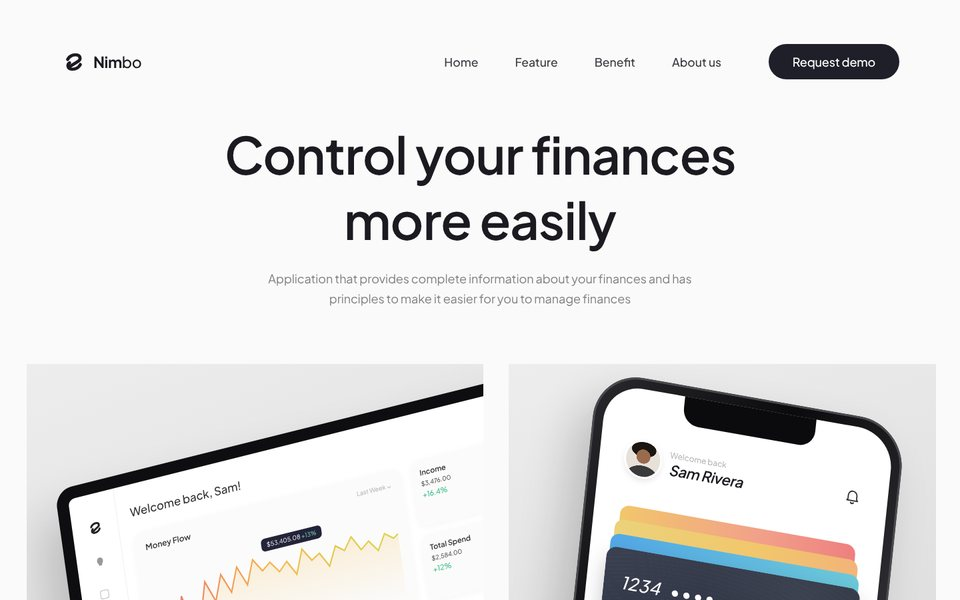
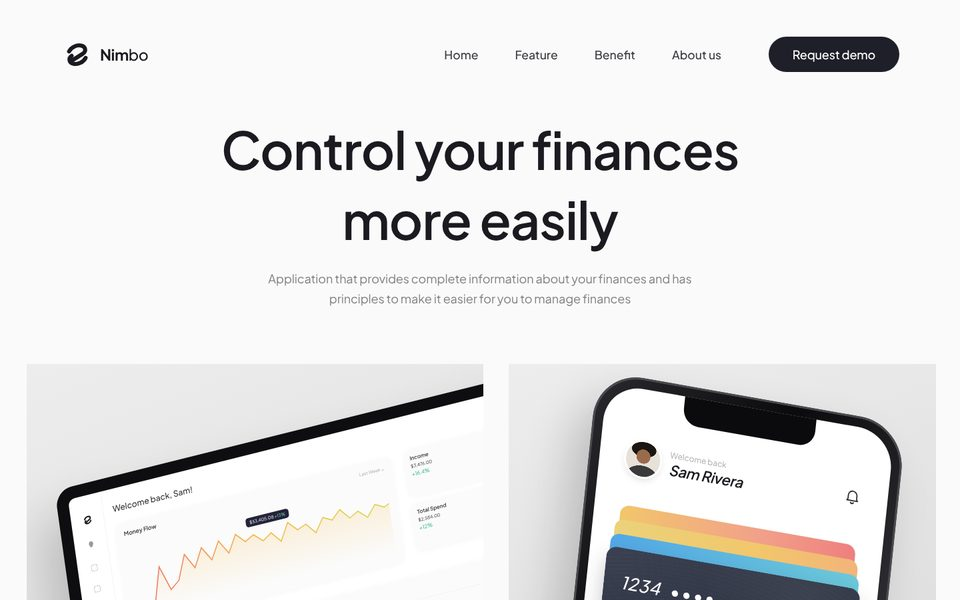
Study 05 round 2: header and hero title measured to the reference, dashboards at the reference UI scale with full content, clean phone-to-laptop swap, page-wide dot cursor; framematch build crop
Claude-Session: https://claude.ai/code/session_014fY7WfygHxUwqSqfTcfTfp

diff --git a/studies/05-finance/style.css b/studies/05-finance/style.css
@@ -31,9 +31,9 @@ img, svg { display: block; }
 .pill svg { width: calc(22 * var(--u)); height: calc(22 * var(--u)); }
 
 /* ---------------------------------------------------------------- nav */
-.nav { position: relative; z-index: 10; display: flex; align-items: center; height: calc(159 * var(--u)); padding: calc(26 * var(--u)) calc(91 * var(--u)) 0 calc(94 * var(--u)); }
+.nav { position: relative; z-index: 10; display: flex; align-items: center; height: calc(159 * var(--u)); padding: calc(4 * var(--u)) calc(91 * var(--u)) 0 calc(94 * var(--u)); }
 .logo { display: inline-flex; align-items: center; gap: calc(12 * var(--u)); font-size: calc(23 * var(--u)); letter-spacing: -.02em; }
-.logo svg { width: calc(34 * var(--u)); height: calc(34 * var(--u)); }
+.logo svg { width: calc(44 * var(--u)); height: calc(44 * var(--u)); }
 .logo b { font-weight: 700; }
 .logo span { font-weight: 500; }
 .nav__links { display: flex; gap: calc(55 * var(--u)); margin-left: auto; margin-right: calc(71 * var(--u)); font-size: calc(17.5 * var(--u)); font-weight: 500; color: #3A3A40; }
@@ -45,9 +45,9 @@ img, svg { display: block; }
 
 /* ---------------------------------------------------------------- hero */
 .hero { position: relative; padding-bottom: calc(0 * var(--u)); }
-.hero__title { display: grid; justify-items: center; margin-top: calc(23 * var(--u)); font-size: calc(77 * var(--u)); font-weight: 560; line-height: calc(98 * var(--u)); letter-spacing: -.016em; }
+.hero__title { display: grid; justify-items: center; margin-top: calc(11.5 * var(--u)); font-size: calc(78 * var(--u)); font-weight: 560; line-height: calc(105 * var(--u)); letter-spacing: -.016em; }
 .hero__title .ln { display: block; }
-.hero__lead { width: calc(660 * var(--u)); margin: calc(25 * var(--u)) auto 0; text-align: center; font-size: calc(18 * var(--u)); line-height: calc(30 * var(--u)); color: var(--grey); letter-spacing: -.005em; }
+.hero__lead { width: calc(660 * var(--u)); margin: calc(22.5 * var(--u)) auto 0; text-align: center; font-size: calc(18 * var(--u)); line-height: calc(30 * var(--u)); color: var(--grey); letter-spacing: -.005em; }
 .panels { position: relative; display: flex; gap: calc(38 * var(--u)); margin: calc(83 * var(--u)) calc(36 * var(--u)) 0 calc(40 * var(--u)); height: calc(508 * var(--u)); }
 .panel { position: relative; flex: 685 1 0; overflow: hidden; background: linear-gradient(160deg, #EDEDED, #DCDCDC); cursor: none; transition: flex-grow .7s var(--ease); }
 .panel--phone { flex-grow: 641; }
@@ -57,16 +57,25 @@ img, svg { display: block; }
 .panels:has(.panel--phone:hover) .panel--laptop { flex-grow: 528; }
 .shot { position: absolute; inset: 0; transition: scale .9s var(--ease); }
 .panel:hover .shot { scale: 1.035; }
-/* the follow cursor: GSAP moves .cursor (x/y); the circle inside scales in by class */
+/* the follow cursor (reference): a small dark dot follows the pointer over the whole page, swells on links and turns
+   into the "See more" circle over the hero panels. GSAP moves .cursor (x/y); the shapes inside scale by class */
 .cursor { position: absolute; z-index: 5; left: 0; top: 0; width: 0; height: 0; pointer-events: none; }
+.cursor.is-page { position: fixed; z-index: 60; }
+.cursor i { position: absolute; left: calc(-7 * var(--u)); top: calc(-7 * var(--u)); width: calc(14 * var(--u)); height: calc(14 * var(--u)); border-radius: 50%; background: #1F1F2A; scale: 0; transition: scale .35s var(--ease), background-color .3s; }
+html.cur-on .cursor.is-page i { scale: 1; }
+html.cur-on .cursor.is-link i { scale: 2.8; background: rgba(31, 31, 42, .16); }
+html.cur-on .cursor.is-panel i { scale: 0; }
+html.cur-dot, html.cur-dot a, html.cur-dot button, html.cur-dot summary { cursor: none; }
+html.cur-dot input, html.cur-dot textarea { cursor: text; }
 .cursor b { position: absolute; left: calc(-86 * var(--u)); top: calc(-86 * var(--u)); display: grid; place-items: center; width: calc(172 * var(--u)); height: calc(172 * var(--u)); border-radius: 50%; background: #1F1F2A; color: #fff; font-size: calc(18 * var(--u)); font-weight: 500; scale: 0; transition: scale .45s var(--ease); }
-.panels.is-hover .cursor b { scale: 1; }
+.panels.is-hover .cursor b, .cursor.is-panel b { scale: 1; }
 @media (hover: none) { .panel { cursor: pointer; } .cursor { display: none; } }
 
 /* laptop mock-up (hero, tilted) */
 .lap { position: absolute; left: calc(46 * var(--u)); top: calc(78 * var(--u)); width: calc(940 * var(--u)); height: calc(600 * var(--u)); padding: calc(18 * var(--u)); border-radius: calc(26 * var(--u)); background: #0E0E10; transform: rotate(-14deg) skewX(-6deg); transform-origin: 0 0; box-shadow: calc(-30 * var(--u)) calc(40 * var(--u)) calc(70 * var(--u)) rgba(0, 0, 0, .18); }
 .lap__screen { position: relative; width: 100%; height: 100%; overflow: hidden; border-radius: calc(10 * var(--u)); background: #fff; }
-.dash { position: absolute; inset: 0; display: grid; grid-template-columns: calc(70 * var(--u)) 1fr calc(170 * var(--u)); font-size: calc(11 * var(--u)); color: #333; }
+/* the dashboard is drawn at the reference's smaller UI scale: the whole screen of it fits in the laptop */
+.dash { position: absolute; left: 0; top: 0; width: calc(100% / .72); height: calc(100% / .72); transform: scale(.72); transform-origin: 0 0; display: grid; grid-template-columns: calc(70 * var(--u)) 1fr calc(250 * var(--u)); font-size: calc(11 * var(--u)); color: #333; }
 .dash__side { display: grid; align-content: start; justify-items: center; gap: calc(30 * var(--u)); padding-top: calc(40 * var(--u)); border-right: 1px solid #F0F0F0; color: #999; }
 .dash__side svg { width: calc(22 * var(--u)); height: calc(22 * var(--u)); }
 .dash__side svg.dash__logo { color: #222; }
@@ -85,17 +94,26 @@ img, svg { display: block; }
 .dash__cards p { position: relative; height: calc(98 * var(--u)); padding: calc(12 * var(--u)); border-radius: calc(12 * var(--u)); background: #FBFBFB; box-shadow: 0 2px 12px rgba(0, 0, 0, .04); display: grid; align-content: start; gap: calc(4 * var(--u)); }
 .dash__cards b { font-weight: 600; }
 .dash__cards em { font-style: normal; color: #24B37A; }
-.dash__tx { position: absolute; left: calc(20 * var(--u)); right: calc(16 * var(--u)); top: calc(320 * var(--u)); display: flex; justify-content: space-between; align-items: center; padding: calc(14 * var(--u)); border-radius: calc(12 * var(--u)); background: #FBFBFB; }
-.dash__tx b { font-weight: 600; }
-.dash__tx i { padding: calc(3 * var(--u)) calc(8 * var(--u)); border-radius: 999px; background: #E8F7EF; color: #24B37A; font-style: normal; }
-.dash__right { padding: calc(30 * var(--u)) calc(14 * var(--u)) 0 0; display: grid; align-content: start; gap: calc(10 * var(--u)); }
+.dash__tx { position: absolute; left: calc(20 * var(--u)); right: calc(16 * var(--u)); top: calc(330 * var(--u)); padding: calc(14 * var(--u)) calc(16 * var(--u)) calc(6 * var(--u)); border-radius: calc(12 * var(--u)); background: #FBFBFB; box-shadow: 0 2px 12px rgba(0, 0, 0, .04); }
+.dash__tx p { display: grid; grid-template-columns: calc(30 * var(--u)) 1.6fr 1fr .7fr .7fr; align-items: center; gap: calc(10 * var(--u)); height: calc(52 * var(--u)); border-top: 1px solid #F1F1F1; color: #777; }
+.dash__tx .dash__tx-h { display: flex; justify-content: space-between; height: calc(34 * var(--u)); border-top: 0; color: #aaa; }
+.dash__tx b { font-weight: 600; color: #333; }
+.dash__tx em { justify-self: end; padding: calc(3 * var(--u)) calc(8 * var(--u)); border-radius: 999px; background: #E8F7EF; color: #24B37A; font-style: normal; }
+.dash__tx p:last-child em { background: #FFF4E2; color: #E39A2D; }
+.dash__ic { width: calc(28 * var(--u)); height: calc(28 * var(--u)); border-radius: calc(8 * var(--u)); background: #F24E1E; }
+.dash__ic--b { background: #111; } .dash__ic--c { background: #F7B500; }
+.dash__right { padding: calc(30 * var(--u)) calc(18 * var(--u)) 0 calc(10 * var(--u)); display: grid; align-content: start; gap: calc(10 * var(--u)); border-left: 1px solid #F3F3F3; }
+.dash__right small { color: #999; }
+.dash__right strong { margin-top: calc(-6 * var(--u)); font-size: calc(18 * var(--u)); font-weight: 600; }
 .dash__right b { font-weight: 600; }
 .mini-stack { position: relative; height: calc(110 * var(--u)); }
 .mini-stack i { position: absolute; left: 0; right: 0; height: calc(80 * var(--u)); border-radius: calc(10 * var(--u)); }
 .mini-stack i:nth-child(1) { top: 0; background: linear-gradient(90deg, #F5C76B, #F29C7A); }
 .mini-stack i:nth-child(2) { top: calc(10 * var(--u)); background: linear-gradient(90deg, #58B5E8, #6FD0C4); }
 .mini-stack i:nth-child(3) { top: calc(22 * var(--u)); background: #2C3142; }
-.goal { height: calc(60 * var(--u)); border-radius: calc(10 * var(--u)); background: linear-gradient(90deg, #E8E3AE, #7FC7C2); }
+.goal { position: relative; display: grid; gap: calc(6 * var(--u)); padding: calc(10 * var(--u)) calc(12 * var(--u)); border-radius: calc(10 * var(--u)); background: #FBFBFB; }
+.goal i { order: 2; height: calc(6 * var(--u)); border-radius: 9px; background: linear-gradient(90deg, #7FC7C2 calc(var(--g) * 100%), #EEE 0); }
+.goal small { order: 1; color: #555; }
 .panel--laptop .lap { left: calc(42 * var(--u)); top: calc(190 * var(--u)); }
 
 /* phone mock-up (hero, tilted) */

diff --git a/studies/05-finance/index.html b/studies/05-finance/index.html
@@ -54,9 +54,9 @@
                       <i class="dash__tip">$53,405.08 <em>+13%</em></i>
                     </div>
                     <div class="dash__cards"><p><b>Income</b><small>$3,476.00</small><em>+16.4%</em></p><p><b>Total Spend</b><small>$2,584.00</small><em>+12%</em></p></div>
-                    <p class="dash__tx"><b>Last Transaction</b><span>Mar 20, 2026</span><span>$54.00</span><i>Success</i></p>
+                    <div class="dash__tx"><p class="dash__tx-h"><b>Last Transaction</b><span>Recent ⌄</span></p><p><i class="dash__ic dash__ic--a"></i><b>Design Pro plan</b><span>Mar 20, 2026</span><span>$54.00</span><em>Success</em></p><p><i class="dash__ic dash__ic--b"></i><b>Site Builder</b><span>Mar 19, 2026</span><span>$30.00</span><em>Success</em></p><p><i class="dash__ic dash__ic--c"></i><b>Sketchbook</b><span>Mar 18, 2026</span><span>$20.00</span><em>Pending</em></p></div>
                   </div>
-                  <div class="dash__right"><b>My Cards</b><span class="mini-stack"><i></i><i></i><i></i></span><small>$ 53,405.08</small><b>My goal</b><span class="goal"></span></div>
+                  <div class="dash__right"><b>My Cards</b><span class="mini-stack"><i></i><i></i><i></i></span><small>Total Balance</small><strong>$ 53,405.08</strong><b>My goals</b><span class="goal"><i style="--g:.72"></i><small>New laptop</small></span><span class="goal"><i style="--g:.38"></i><small>Holiday</small></span><span class="goal"><i style="--g:.56"></i><small>Savings</small></span></div>
                 </div>
               </div>
             </div>
@@ -137,9 +137,9 @@
                       <i class="dash__tip">$53,405.08 <em>+13%</em></i>
                     </div>
                     <div class="dash__cards"><p><b>Income</b><small>$3,476.00</small><em>+16.4%</em></p><p><b>Total Spend</b><small>$2,584.00</small><em>+12%</em></p></div>
-                    <p class="dash__tx"><b>Last Transaction</b><span>Mar 20, 2026</span><span>$54.00</span><i>Success</i></p>
+                    <div class="dash__tx"><p class="dash__tx-h"><b>Last Transaction</b><span>Recent ⌄</span></p><p><i class="dash__ic dash__ic--a"></i><b>Design Pro plan</b><span>Mar 20, 2026</span><span>$54.00</span><em>Success</em></p><p><i class="dash__ic dash__ic--b"></i><b>Site Builder</b><span>Mar 19, 2026</span><span>$30.00</span><em>Success</em></p><p><i class="dash__ic dash__ic--c"></i><b>Sketchbook</b><span>Mar 18, 2026</span><span>$20.00</span><em>Pending</em></p></div>
                   </div>
-                  <div class="dash__right"><b>My Cards</b><span class="mini-stack"><i></i><i></i><i></i></span><small>$ 53,405.08</small><b>My goal</b><span class="goal"></span></div>
+                  <div class="dash__right"><b>My Cards</b><span class="mini-stack"><i></i><i></i><i></i></span><small>Total Balance</small><strong>$ 53,405.08</strong><b>My goals</b><span class="goal"><i style="--g:.72"></i><small>New laptop</small></span><span class="goal"><i style="--g:.38"></i><small>Holiday</small></span><span class="goal"><i style="--g:.56"></i><small>Savings</small></span></div>
                 </div>
 </div></div></div>
           </div>

diff --git a/studies/05-finance/main.js b/studies/05-finance/main.js
@@ -14,9 +14,30 @@
     t.addEventListener('click', function () { $$('.tab').forEach(function (o) { o.classList.toggle('is-on', o === t); }); });
   });
 
-  /* follow cursor over the panels (fine pointers only) */
+  /* follow cursor (fine pointers only): with motion allowed it is a page-wide dot that becomes "See more" over the
+     panels (reference); with reduced motion it stays the panels' own circle */
   var panels = $('.panels'), cursor = $('.cursor');
-  if (panels && window.matchMedia('(hover: hover) and (pointer: fine)').matches) {
+  var fine = window.matchMedia('(hover: hover) and (pointer: fine)').matches;
+  if (cursor && fine && !reduce && gsap) {
+    cursor.insertAdjacentHTML('afterbegin', '<i></i>');
+    document.body.appendChild(cursor);
+    cursor.classList.add('is-page');
+    root.classList.add('cur-dot');
+    var cx = gsap.quickTo(cursor, 'x', { duration: .35, ease: 'power3' }), cy = gsap.quickTo(cursor, 'y', { duration: .35, ease: 'power3' });
+    var first = true;
+    window.addEventListener('pointermove', function (e) {
+      if (e.clientX === 0 && e.clientY === 0) return;
+      if (first) { gsap.set(cursor, { x: e.clientX, y: e.clientY }); first = false; }
+      cx(e.clientX); cy(e.clientY);
+      root.classList.add('cur-on');
+      var t = e.target;
+      cursor.classList.toggle('is-panel', !!(t.closest && t.closest('.panel')));
+      cursor.classList.toggle('is-link', !!(t.closest && t.closest('a:not(.panel), button, summary, .tab, input')));
+    }, { passive: true });
+    document.documentElement.addEventListener('mouseleave', function () { root.classList.remove('cur-on'); });
+    panels = null; // the page-wide cursor replaces the panels-only one
+  }
+  if (panels && fine) {
     var place = function (x, y) { cursor.style.transform = 'translate(' + x + 'px,' + y + 'px)'; };
     var qx = null, qy = null;
     if (gsap && !reduce) { qx = gsap.quickTo(cursor, 'x', { duration: .45, ease: 'power3' }); qy = gsap.quickTo(cursor, 'y', { duration: .45, ease: 'power3' }); }
@@ -80,7 +101,7 @@
     var story = gsap.timeline({ scrollTrigger: { trigger: '.feature', start: 'top top', end: 'bottom bottom', scrub: .6 } });
     story.to({}, { duration: .3 })
       .to(fs1, { autoAlpha: 0, y: -30, duration: .14 }, .3)
-      .to('.fx__phone .iph', { yPercent: 80, duration: .25, ease: 'power2.in' }, .3)
+      .to('.fx__phone .iph', { yPercent: 125, autoAlpha: 0, duration: .25, ease: 'power2.in' }, .3)
       .to('.fx__laptop', { autoAlpha: 1, xPercent: 0, yPercent: 0, duration: .3, ease: 'power2.out' }, .42)
       .fromTo(fs2, { autoAlpha: 0, y: 40 }, { autoAlpha: 1, y: 0, duration: .16 }, .46)
       .from('.checks li', { x: -24, opacity: 0, stagger: .03, duration: .12 }, .52)

diff --git a/studies/tools/qa/framematch.py b/studies/tools/qa/framematch.py
@@ -1,5 +1,6 @@
 """Pair each moment of a reference video with the closest capture of the build (from scan.js).
-usage: framematch.py <video> <page box x0,y0,x1,y1> <scan dir> <out prefix> [step s] [t0] [t1]
+usage: framematch.py <video> <page box x0,y0,x1,y1> <scan dir> <out prefix> [step s] [t0] [t1] [--build-box x0,y0,x1,y1]
+--build-box crops every capture first (when the video shows only part of the viewport, e.g. a page that starts lower).
 For every <step> seconds the video's page area is compared with every capture (grey levels and edges, both
 normalised); the best capture is paired with the frame. Writes <out>-NN.jpg sheets (reference | build, 6 rows each)
 and <out>.csv (time, scroll y, score). A low score marks a moment the build does not reproduce."""
@@ -10,6 +11,11 @@ import json
 import numpy as np
 from PIL import Image, ImageDraw, ImageFilter
 
+args = sys.argv[1:]
+bbox = None
+if '--build-box' in args:
+    k = args.index('--build-box'); bbox = tuple(int(v) for v in args[k + 1].split(',')); del args[k:k + 2]
+sys.argv = [sys.argv[0]] + args
 video, box, scan, out = sys.argv[1:5]
 step = float(sys.argv[5]) if len(sys.argv) > 5 else .5
 t0 = float(sys.argv[6]) if len(sys.argv) > 6 else 0.
@@ -40,6 +46,7 @@ shots = idx['shots']
 feats, thumbs = [], []
 for s in shots:
     im = Image.open(f"{scan}/{s['file']}").convert('RGB')
+    if bbox: im = im.crop(bbox)
     feats.append(feat(im))
     thumbs.append(im.resize((480, round(480 * im.height / im.width)), Image.LANCZOS))
 A = np.stack([f[0].ravel() for f in feats]); E = np.stack([f[1].ravel() for f in feats])

diff --git a/studies/README.md b/studies/README.md
@@ -73,6 +73,11 @@ Also sent with the request (references to use in places later, not studies thems
 - Font: Plus Jakarta Sans (hero 77u / 560, section titles 46u / 540, CTA 58u).
 - Placeholders: brand "Nimbo", person "Sam Rivera", partner wordmarks Fernpay / kite / Ledgerly / tandem, transactions
   Design Pro plan / Site Builder / Sketchbook. Laptop and phone mock-ups are HTML/CSS.
+- Round 2 (frame-matched; the video shows the page 44 px below the frame top until it scrolls, so match with
+  `framematch.py ... 56,44,583,480 ... --build-box 0,0,1440,1189`): nav 11u higher and a 44u logo mark, hero title
+  78u / 105u lines (all within 1-5 px of the reference now); the dashboards are drawn at the reference's 0.72 UI scale
+  (whole screen: chart, income / spend, transactions table, cards and goals column); the feature phone leaves fully when
+  the laptop arrives; a page-wide dot cursor (dot -> swell on links -> "See more" over the hero panels).
 - Pitfall: GSAP x/y on an element that also uses the CSS `scale` property bakes that scale into its transform (the cursor
   stayed at scale 0) → GSAP moves an outer box, the circle inside scales by class.
 
